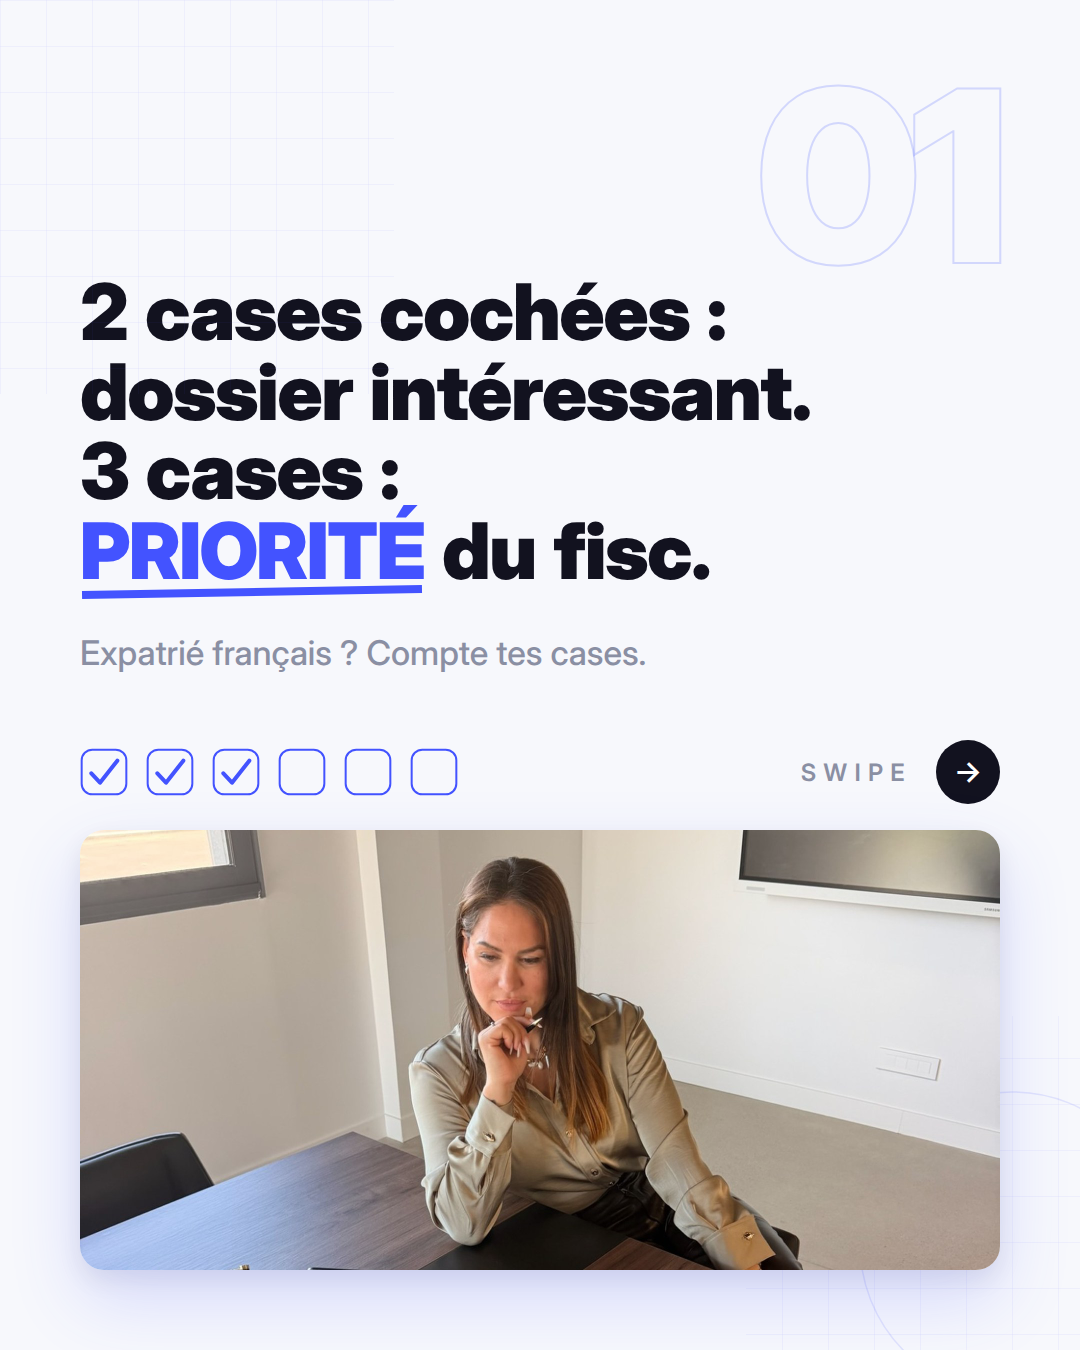
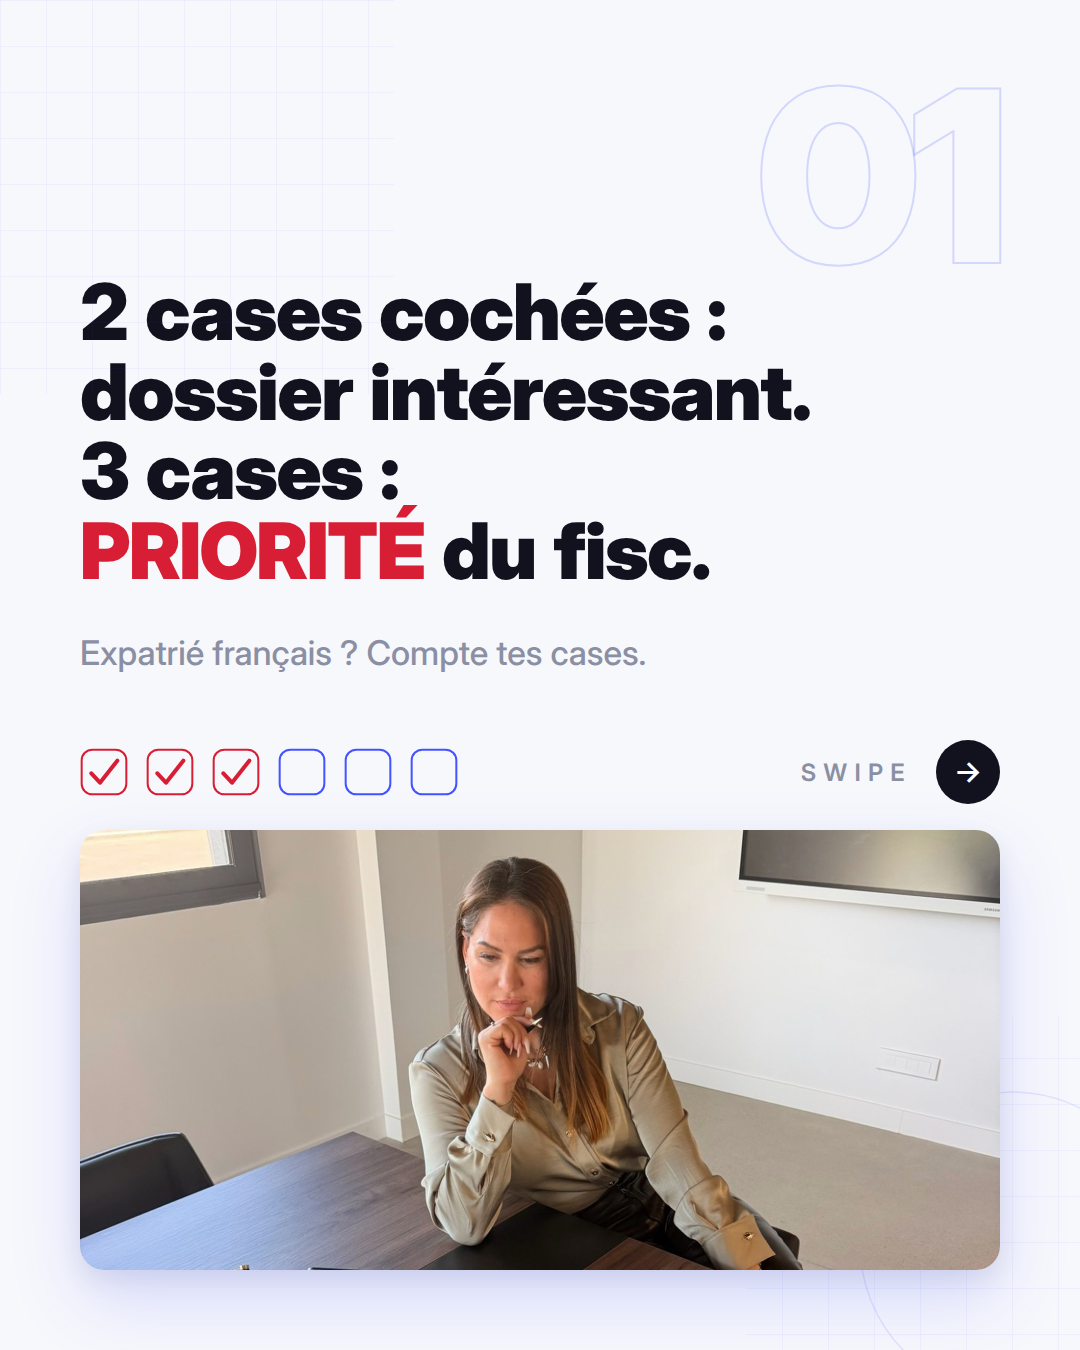
Couverture fisc : accent rouge sur PRIORITE, soulignement retire
Ajout d'un token --red #D81E34 (4,76:1 sur le fond, AA pour du texte
normal), reserve a l'alerte. PRIORITE passe en rouge sans trait de
soulignement, et les trois cases deja cochees passent en rouge : le
compte a rebours se lit avant meme de lire le titre. Les trois cases
vides restent bleues. Le rouge est ajoute a l'audit de contrastes.

Claude-Session: https://claude.ai/code/session_01JgjaVc8GDMA4sZRNpbXpxq

Changed region(s): [[0.0611, 0.3733, 0.3972, 0.4667], [0.0611, 0.56, 0.2444, 0.5911]]

diff --git a/carrousel/slides/fisc/slide-01.html b/carrousel/slides/fisc/slide-01.html
@@ -23,27 +23,27 @@
       <div class="head"></div>
       <h1 class="title title--hero" style="font-size:78px;white-space:nowrap">
         2 cases cochées :<br>dossier intéressant.<br>3 cases :<br>
-        <span class="blue ul-blue">PRIORITÉ</span> du fisc.
+        <span class="red">PRIORITÉ</span> du fisc.
       </h1>
       <p class="body muted" style="margin-top:40px">Expatrié français ? Compte tes cases.</p>
       <div class="cbox-fan" style="position:absolute;left:80px;top:748px;gap:18px">
         
 <svg class="cbox" width="48" height="48" viewBox="0 0 72 72" aria-hidden="true" style="">
   <rect x="2.5" y="2.5" width="67" height="67" rx="16"
-        fill="none" stroke="#4353FF" stroke-width="3"/>
-  <path d="M17,38 L30,52 L56,19" fill="none" stroke="#4353FF" stroke-width="6"
+        fill="none" stroke="#D81E34" stroke-width="3"/>
+  <path d="M17,38 L30,52 L56,19" fill="none" stroke="#D81E34" stroke-width="6"
        stroke-linecap="round" stroke-linejoin="round"/>
 </svg>
 <svg class="cbox" width="48" height="48" viewBox="0 0 72 72" aria-hidden="true" style="">
   <rect x="2.5" y="2.5" width="67" height="67" rx="16"
-        fill="none" stroke="#4353FF" stroke-width="3"/>
-  <path d="M17,38 L30,52 L56,19" fill="none" stroke="#4353FF" stroke-width="6"
+        fill="none" stroke="#D81E34" stroke-width="3"/>
+  <path d="M17,38 L30,52 L56,19" fill="none" stroke="#D81E34" stroke-width="6"
        stroke-linecap="round" stroke-linejoin="round"/>
 </svg>
 <svg class="cbox" width="48" height="48" viewBox="0 0 72 72" aria-hidden="true" style="">
   <rect x="2.5" y="2.5" width="67" height="67" rx="16"
-        fill="none" stroke="#4353FF" stroke-width="3"/>
-  <path d="M17,38 L30,52 L56,19" fill="none" stroke="#4353FF" stroke-width="6"
+        fill="none" stroke="#D81E34" stroke-width="3"/>
+  <path d="M17,38 L30,52 L56,19" fill="none" stroke="#D81E34" stroke-width="6"
        stroke-linecap="round" stroke-linejoin="round"/>
 </svg>
         

diff --git a/carrousel/src/slides-fisc.js b/carrousel/src/slides-fisc.js
@@ -8,6 +8,7 @@ const fs = require('fs');
 const path = require('path');
 
 const B = '#4353FF';
+const R = '#D81E34';   /* alerte */
 
 /* Décor en filigrane : grilles carrées en coin (identique aux decks validés) */
 const DECOR = `
@@ -147,11 +148,11 @@ const D = {
 };
 
 /* --- la case à cocher : carré 72px, coche épaisse tracée d'un geste --- */
-const cbox = (checked, size = 72, style = '', solid = false) => `
+const cbox = (checked, size = 72, style = '', solid = false, tone = B) => `
 <svg class="cbox" width="${size}" height="${size}" viewBox="0 0 72 72" aria-hidden="true" style="${style}">
   <rect x="2.5" y="2.5" width="67" height="67" rx="16"
-        fill="${solid ? '#F7F8FC' : 'none'}" stroke="${B}" stroke-width="3"/>
-  ${checked ? `<path d="M17,38 L30,52 L56,19" fill="none" stroke="${B}" stroke-width="6"
+        fill="${solid ? '#F7F8FC' : 'none'}" stroke="${tone}" stroke-width="3"/>
+  ${checked ? `<path d="M17,38 L30,52 L56,19" fill="none" stroke="${tone}" stroke-width="6"
        stroke-linecap="round" stroke-linejoin="round"/>` : ''}
 </svg>`;
 
@@ -189,11 +190,11 @@ module.exports = { DECOR, slides: [
       <div class="head"></div>
       <h1 class="title title--hero" style="font-size:78px;white-space:nowrap">
         2 cases cochées :<br>dossier intéressant.<br>3 cases :<br>
-        <span class="blue ul-blue">PRIORITÉ</span> du fisc.
+        <span class="red">PRIORITÉ</span> du fisc.
       </h1>
       <p class="body muted" style="margin-top:40px">Expatrié français ? Compte tes cases.</p>
       <div class="cbox-fan" style="position:absolute;left:80px;top:748px;gap:18px">
-        ${cbox(true, 48)}${cbox(true, 48)}${cbox(true, 48)}
+        ${cbox(true, 48, '', false, R)}${cbox(true, 48, '', false, R)}${cbox(true, 48, '', false, R)}
         ${cbox(false, 48)}${cbox(false, 48)}${cbox(false, 48)}
       </div>
       <div class="swipe" style="position:absolute;top:740px;right:80px">

diff --git a/carrousel/src/style.css b/carrousel/src/style.css
@@ -17,6 +17,7 @@
   --grey:  #8A8FA3;  /* texte secondaire */
   --card:  #EFF1F7;  /* cards claires */
   --line:  #E3E6F0;  /* filets de séparation */
+  --red:   #D81E34;  /* alerte : seule extension de palette de ce carrousel */
   --shadow-blue: 0 20px 60px rgba(67, 83, 255, 0.35);
   --r: 24px;         /* radius des cards */
 }
@@ -78,6 +79,7 @@ html, body {
 .title--hero  { font-size: 84px; }
 .title--codex { font-size: 104px; }
 .blue { color: var(--blue); }
+.red  { color: var(--red); }
 
 /* zone centrale : composant centré entre le titre et la chute */
 .zone { flex: 1; display: flex; flex-direction: column; justify-content: center; min-height: 0; }

diff --git a/carrousel/src/contrast.js b/carrousel/src/contrast.js
@@ -15,6 +15,8 @@ const cases = [
   ['#8A8FA3', CARD, 'gris secondaire sur card claire',        4.5],
   ['#6B7085', BG,   'gris alternatif propose sur le fond',    4.5],
   ['#6B7085', CARD, 'gris alternatif propose sur card',       4.5],
+  ['#D81E34', BG,   'rouge alerte sur le fond',                4.5],
+  ['#D81E34', CARD, 'rouge alerte sur card claire',            4.5],
 ];
 console.log('\n=== CONTRASTES ===');
 let ko = 0;
